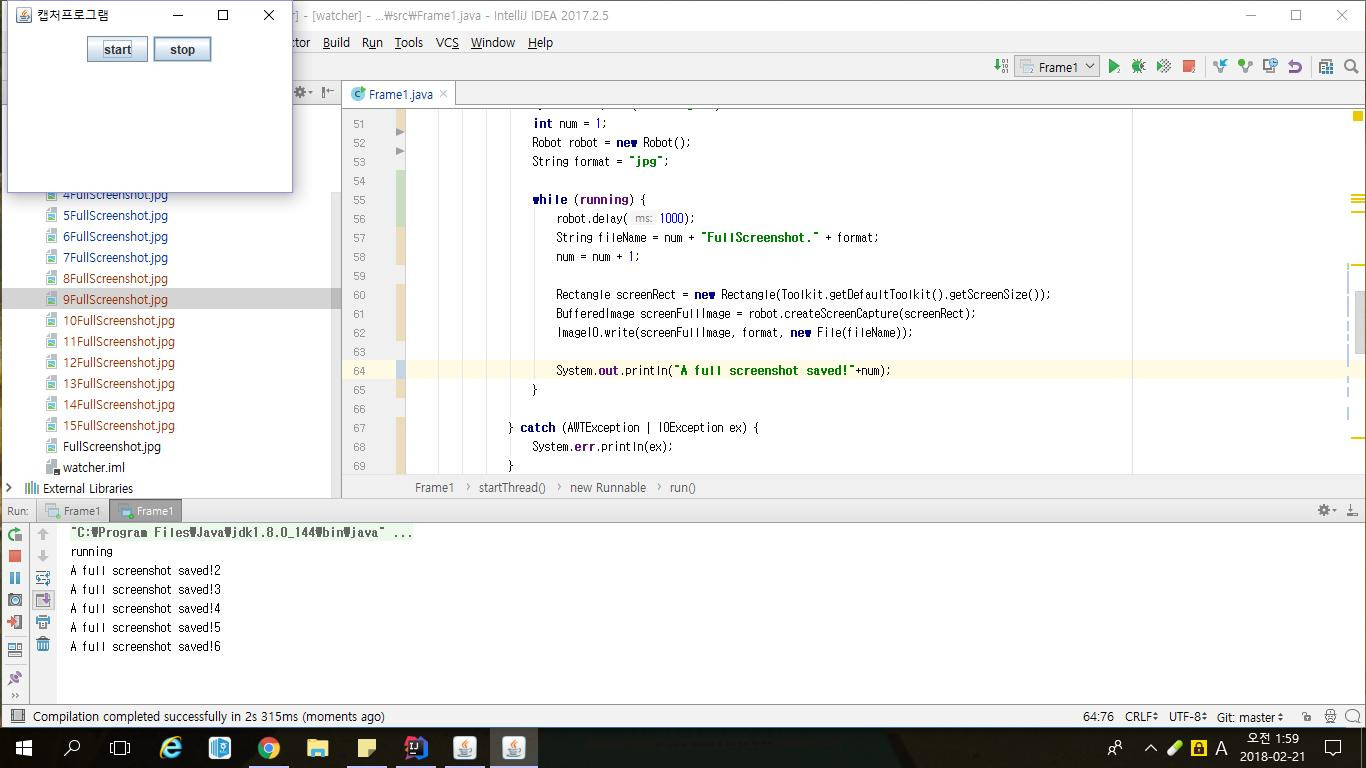
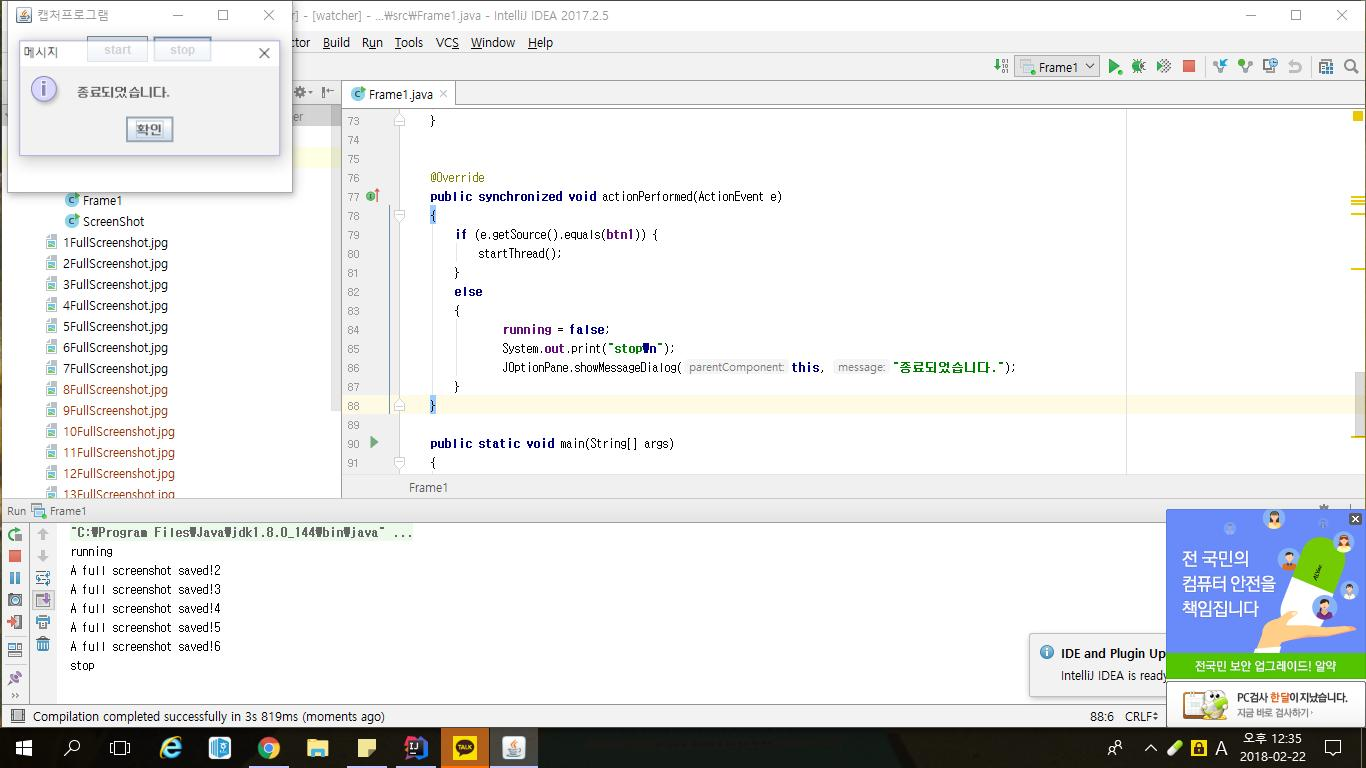
이용자 식별 버튼 추가

diff --git a/src/Frame1.java b/src/Frame1.java
@@ -1,15 +1,13 @@
-import java.awt.FlowLayout;
-import java.awt.Frame;
+import java.awt.*;
+import java.net.Socket;
+import java.sql.Connection;
+import java.sql.DriverManager;
+
 import java.awt.event.ActionEvent;
 import java.awt.event.ActionListener;
 
-import javax.swing.JButton;
-import javax.swing.JOptionPane;
+import javax.swing.*;
 
-import java.awt.AWTException;
-import java.awt.Rectangle;
-import java.awt.Robot;
-import java.awt.Toolkit;
 import java.awt.image.BufferedImage;
 import java.io.File;
 import java.io.IOException;
@@ -21,7 +19,11 @@ public class Frame1 extends Frame implements ActionListener
 {
     JButton btn1 = new JButton("start");
     JButton btn2 = new JButton("stop");
+    JButton btnLabel = new JButton("id입력");
+    JTextField idField = new JTextField(BorderLayout.CENTER);
+    JLabel idLabel = new JLabel();
     boolean running = false;
+    int id;
 
 
     public Frame1()
@@ -30,16 +32,21 @@ public class Frame1 extends Frame implements ActionListener
         super("캡처프로그램");
         this.setLayout(new FlowLayout());
 
+        this.add(idField);
+        this.add(btnLabel);
+
         this.add(btn1);
         this.add(btn2);
+        this.add(idLabel);
 
         this.setSize(300, 200);
         this.setVisible(true);
 
         btn1.addActionListener(this);
         btn2.addActionListener(this);
-
+        btnLabel.addActionListener(this::actionPerformed2);
     }
+
     public void startThread(){
 
         Thread capture_thread = new Thread(new Runnable() {
@@ -53,7 +60,7 @@ public class Frame1 extends Frame implements ActionListener
                     String format = "jpg";
 
                     while (running) {
-                        robot.delay(1000);
+                        robot.delay(30000);
                         String fileName = num + "FullScreenshot." + format;
                         num = num + 1;
 
@@ -87,11 +94,30 @@ public class Frame1 extends Frame implements ActionListener
         }
     }
 
-    public static void main(String[] args)
+    public static void main(String[] args) throws Exception
     {
+
         boolean running = false;
         new Frame1();
 
+        //보낼 서버 아이피
+        String serverIP = "localhost";
+        Socket socket = null;
+
+        try {
+            socket = new Socket(serverIP,80);//소켓 생성
+            SenderThread sender = new SenderThread(socket);//스레드 생성
+            sender.start();//시작
+
+
+        } catch (Exception e) {
+            e.printStackTrace();
+        }
+
     }
 
+    private void actionPerformed2(ActionEvent e) {
+        id = Integer.parseInt(idField.getText());
+        idLabel.setText(idField.getText());
+    }
 }
